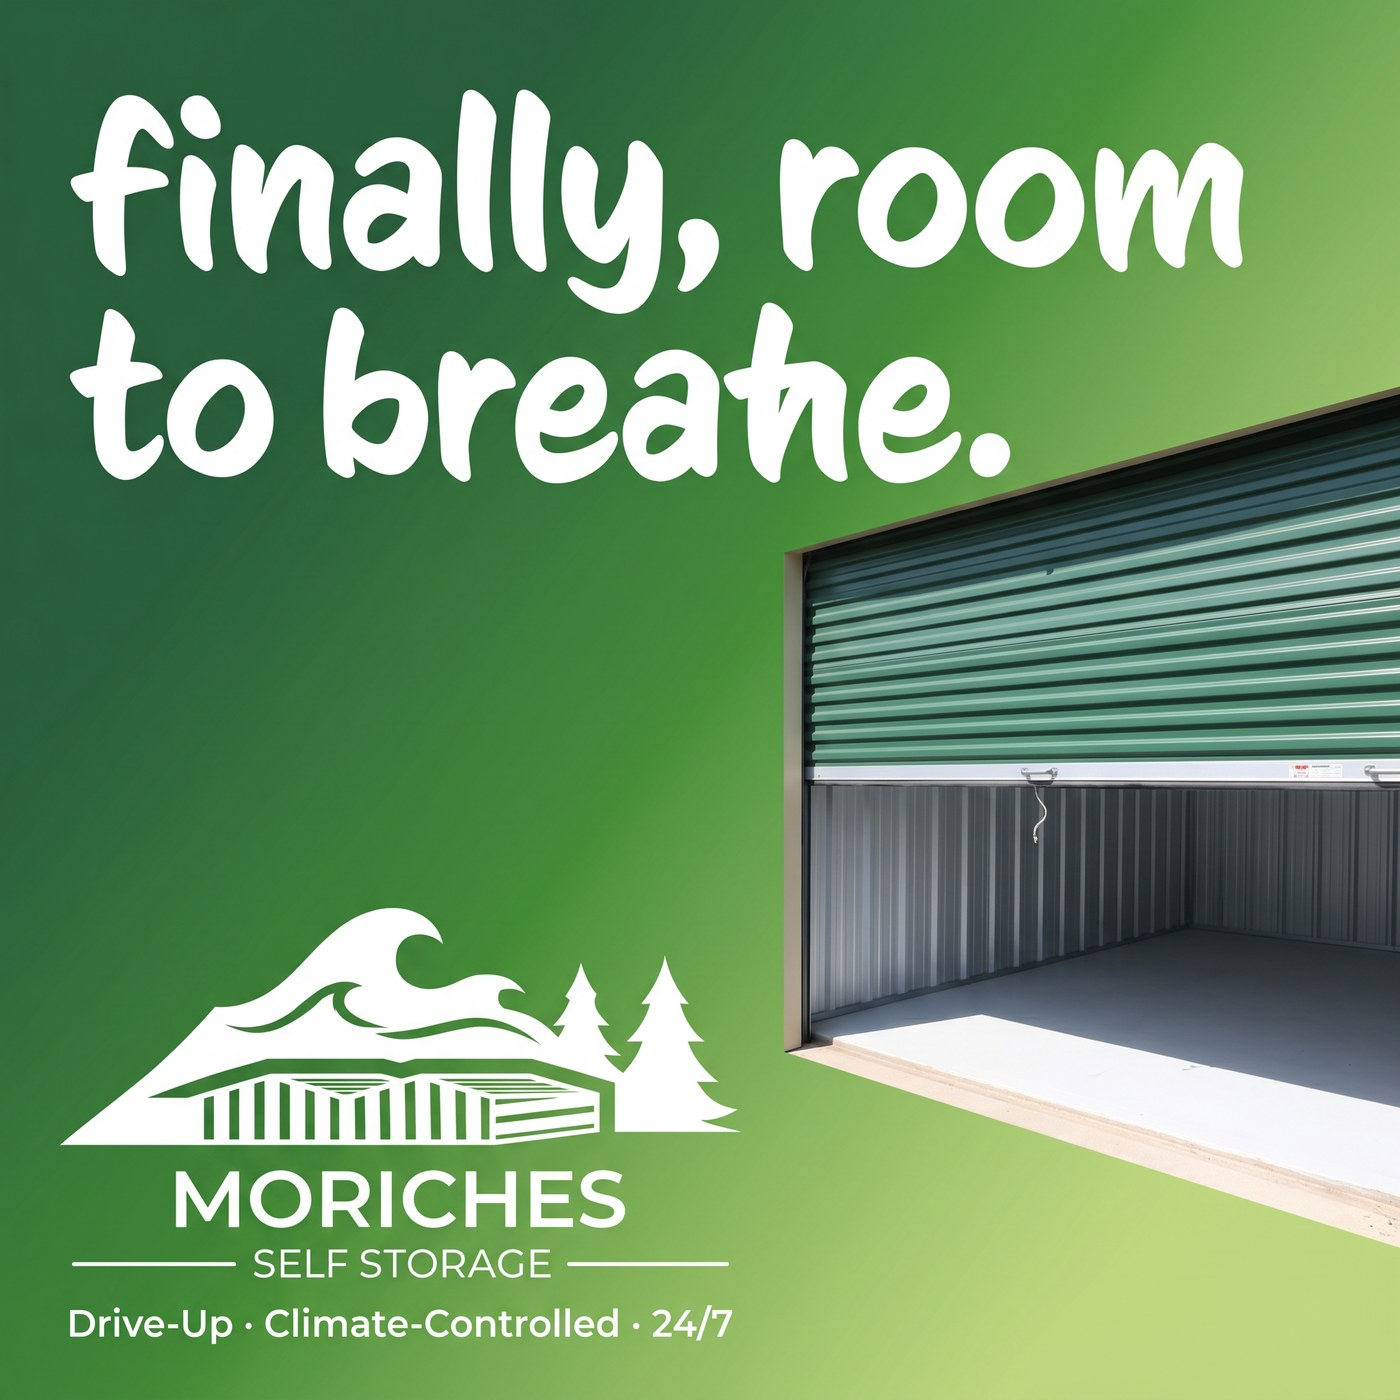
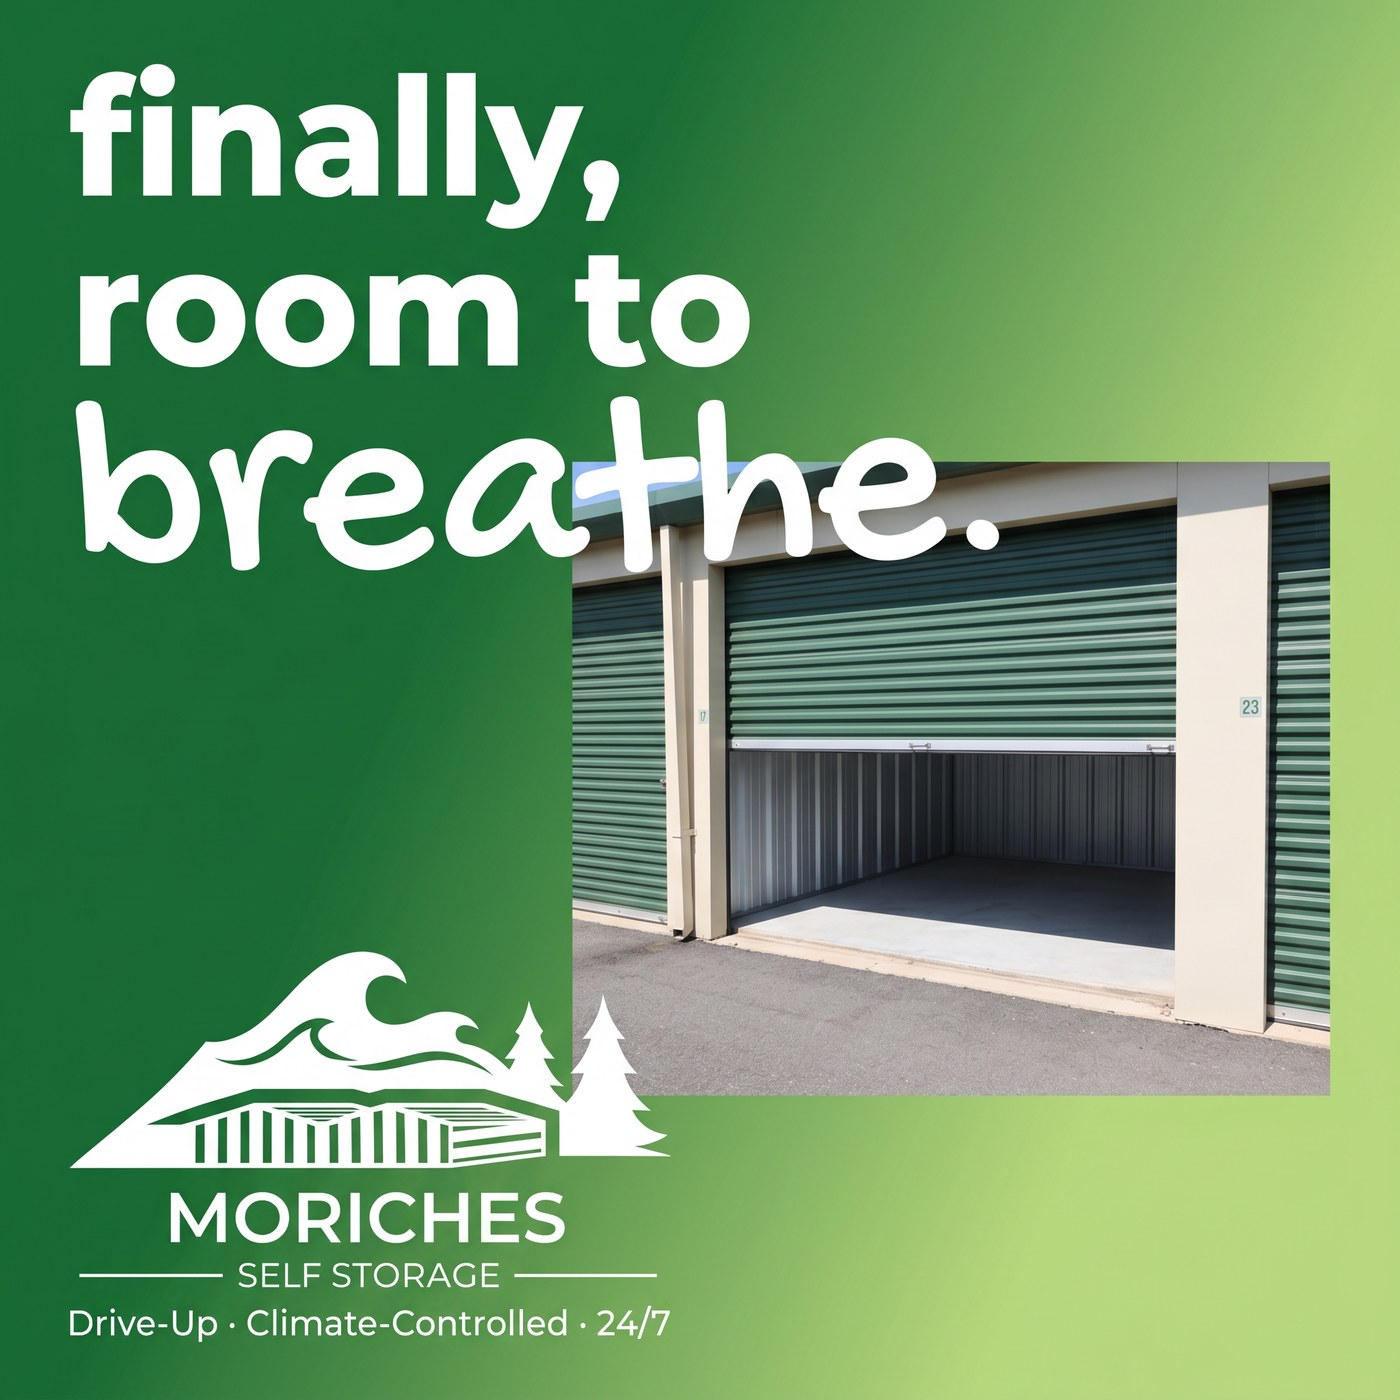
Fix breathe/safe typos (enhanced QA: spelling + brand-info)

diff --git a/index.html b/index.html
@@ -60,9 +60,9 @@
 <figure><a href="ads/18-stat-surround-lifestyle.jpg?v=1782854216" target="_blank" rel="noopener"><img src="ads/18-stat-surround-lifestyle.jpg?v=1782854216" loading="lazy" alt="Stat Surround Lifestyle"></a><figcaption><span class="num">18</span> Stat Surround Lifestyle</figcaption></figure>
 <figure><a href="ads/19-annotated-testimonial.jpg?v=1782856313" target="_blank" rel="noopener"><img src="ads/19-annotated-testimonial.jpg?v=1782856313" loading="lazy" alt="Annotated Testimonial"></a><figcaption><span class="num">19</span> Annotated Testimonial</figcaption></figure>
 <figure><a href="ads/20-advertorial-editorial.jpg?v=1782854258" target="_blank" rel="noopener"><img src="ads/20-advertorial-editorial.jpg?v=1782854258" loading="lazy" alt="Advertorial Editorial"></a><figcaption><span class="num">20</span> Advertorial Editorial</figcaption></figure>
-<figure><a href="ads/21-bold-reaction-headline.jpg?v=1782856336" target="_blank" rel="noopener"><img src="ads/21-bold-reaction-headline.jpg?v=1782856336" loading="lazy" alt="Bold Reaction Headline"></a><figcaption><span class="num">21</span> Bold Reaction Headline</figcaption></figure>
+<figure><a href="ads/21-bold-reaction-headline.jpg?v=1782925826" target="_blank" rel="noopener"><img src="ads/21-bold-reaction-headline.jpg?v=1782925826" loading="lazy" alt="Bold Reaction Headline"></a><figcaption><span class="num">21</span> Bold Reaction Headline</figcaption></figure>
 <figure><a href="ads/22-feels-like-story.jpg?v=1782854299" target="_blank" rel="noopener"><img src="ads/22-feels-like-story.jpg?v=1782854299" loading="lazy" alt="Feels Like Story"></a><figcaption><span class="num">22</span> Feels Like Story</figcaption></figure>
-<figure><a href="ads/23-manifesto-letter.jpg?v=1782856358" target="_blank" rel="noopener"><img src="ads/23-manifesto-letter.jpg?v=1782856358" loading="lazy" alt="Manifesto Letter"></a><figcaption><span class="num">23</span> Manifesto Letter</figcaption></figure>
+<figure><a href="ads/23-manifesto-letter.jpg?v=1782925846" target="_blank" rel="noopener"><img src="ads/23-manifesto-letter.jpg?v=1782925846" loading="lazy" alt="Manifesto Letter"></a><figcaption><span class="num">23</span> Manifesto Letter</figcaption></figure>
 <figure><a href="ads/24-product-comment-callout.jpg?v=1782854336" target="_blank" rel="noopener"><img src="ads/24-product-comment-callout.jpg?v=1782854336" loading="lazy" alt="Product Comment Callout"></a><figcaption><span class="num">24</span> Product Comment Callout</figcaption></figure>
 <figure><a href="ads/25-us-vs-them-split.jpg?v=1782856385" target="_blank" rel="noopener"><img src="ads/25-us-vs-them-split.jpg?v=1782856385" loading="lazy" alt="Us Vs Them Split"></a><figcaption><span class="num">25</span> Us Vs Them Split</figcaption></figure>
 <figure><a href="ads/26-stat-driven-lifestyle.jpg?v=1782856413" target="_blank" rel="noopener"><img src="ads/26-stat-driven-lifestyle.jpg?v=1782856413" loading="lazy" alt="Stat Driven Lifestyle"></a><figcaption><span class="num">26</span> Stat Driven Lifestyle</figcaption></figure>